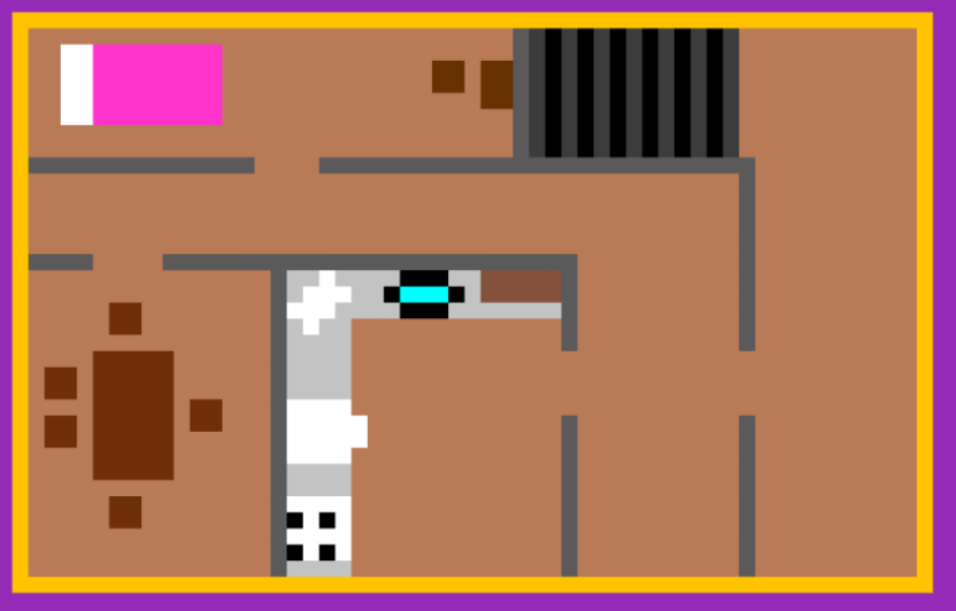
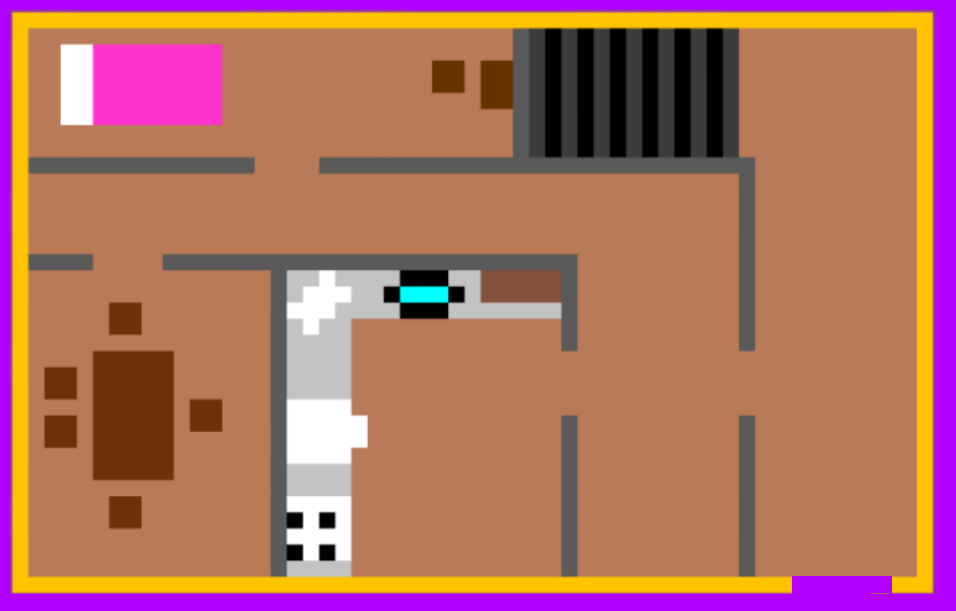
Paul implemented the score and the time into he game.
We also have a new main menu screen by Paul and a new button and clicked button by Nathan

Changed region(s): [[0.0, 0.0, 1.0, 1.0]]

diff --git a/CNYgame.py b/CNYgame.py
@@ -21,7 +21,7 @@ screen = pygame.display.set_mode(size)
 bgColor = r,g,b = 100, 30, 234
 bgI = pygame.image.load("images/map1.png")
 bgR = bgI.get_rect()
-bgImage = pygame.image.load("images/Screens/Screen Saver3.png").convert()
+bgImage = pygame.image.load("images/Screens/Capture.png").convert()
 bgRect = bgImage.get_rect()
 
 walls = [Wall([13, 12], [931, 28]),
@@ -52,13 +52,19 @@ player2 = PlayerBall([2*width/3, 2*height/3])
 balls = []
 balls += [Ball("images/Ball/crabman.png", [4,5], [100, 125])]
 
+timer = Score([80, height - 25], "Time:",36)
+timerWait = 0
+timerWaitMax =20
+
 title = Text([height/4, width/8], "Hello HUD!!", 20)
+
+score = Score([width-80,height-25], "Score:", 36)
 
 run = False
 
 startButton = Button([width/2, height-300], 
-                                     "images/Button/Start Base.png", 
-                                     "images/Button/Start Clicked.png")
+                                     "images/Button/newbutton.png", 
+                                     "images/Button/newbuttonc.png")
 
 while True:
         while not run:
@@ -80,104 +86,116 @@ while True:
                 pygame.display.flip()
                 clock.tick(60)
 
-	while run:
-		for event in pygame.event.get():
-			if event.type == pygame.QUIT: sys.exit()
-			if event.type == pygame.KEYDOWN:
-				if event.key == pygame.K_w:
-					player1.go("up")
-				if event.key == pygame.K_d:
-					player1.go("right")
-				if event.key == pygame.K_s:
-					player1.go("down")
-				if event.key == pygame.K_a:
-					player1.go("left")
-					
-				if event.key == pygame.K_UP:
-					player2.go("up")
-				if event.key == pygame.K_RIGHT:
-					player2.go("right")
-				if event.key == pygame.K_DOWN:
-					player2.go("down")
-				if event.key == pygame.K_LEFT:
-					player2.go("left")
-			if event.type == pygame.KEYUP:
-				if event.key == pygame.K_w:
-					player1.go("stop up")
-				if event.key == pygame.K_d:
-					player1.go("stop right")
-				if event.key == pygame.K_s:
-					player1.go("stop down")
-				if event.key == pygame.K_a:
-					player1.go("stop left")
+        while run:
+            for event in pygame.event.get():
+                if event.type == pygame.QUIT: sys.exit()
+                if event.type == pygame.KEYDOWN:
+                    if event.key == pygame.K_w:
+                        player1.go("up")
+                    if event.key == pygame.K_d:
+                        player1.go("right")
+                    if event.key == pygame.K_s:
+                        player1.go("down")
+                    if event.key == pygame.K_a:
+                        player1.go("left")
+                        
+                    if event.key == pygame.K_UP:
+                        player2.go("up")
+                    if event.key == pygame.K_RIGHT:
+                        player2.go("right")
+                    if event.key == pygame.K_DOWN:
+                        player2.go("down")
+                    if event.key == pygame.K_LEFT:
+                        player2.go("left")
+                if event.type == pygame.KEYUP:
+                    if event.key == pygame.K_w:
+                        player1.go("stop up")
+                    if event.key == pygame.K_d:
+                        player1.go("stop right")
+                    if event.key == pygame.K_s:
+                        player1.go("stop down")
+                    if event.key == pygame.K_a:
+                        player1.go("stop left")
 
-				if event.key == pygame.K_UP:
-					player2.go("stop up")
-				if event.key == pygame.K_RIGHT:
-					player2.go("stop right")
-				if event.key == pygame.K_DOWN:
-					player2.go("stop down")
-				if event.key == pygame.K_LEFT:
-					player2.go("stop left")
+                    if event.key == pygame.K_UP:
+                        player2.go("stop up")
+                    if event.key == pygame.K_RIGHT:
+                        player2.go("stop right")
+                    if event.key == pygame.K_DOWN:
+                        player2.go("stop down")
+                    if event.key == pygame.K_LEFT:
+                        player2.go("stop left")
+                    
                 
-			
-		if len(balls) < 2:
-			if random.randint(0, .25*60) == 0:
-				balls += [Ball("images/Ball/spinnything.png",
-						  [random.randint(0,10), random.randint(0,10)],
-						  [random.randint(100, width-100), random.randint(100, height-100)])
-						  ]
-		if len(balls) < 2:
-			if random.randint(0, .25*60) == 0:
-				balls += [Ball("images/Ball/crabman.png",
-						  [random.randint(0,10), random.randint(0,10)],
-						  [random.randint(100, width-100), random.randint(100, height-100)])
-						  ]
-  
-  
-		player1.update(width, height)
-		player2.update(width, height)
-		for ball in balls:
-			ball.update(width, height)
-			
-		for wall in walls:
-			player1.collideWall(wall)
-			player2.collideWall(wall)
-		 #   for ball in ball:
-		  #      ball.collideWall(wall)
-			
-		for bully in balls:
-			for victem in balls:
-				bully.collideBall(victem)
-				bully.collidePlayer(player1)
-				bully.collidePlayer(player2)
-		
-		for ball in balls:
-			if not ball.living:
-				balls.remove(ball)
-		
-		bgColor = r,g,b
-		screen.fill(bgColor)
-		screen.blit(bgI, bgR)
-		for ball in balls:
-			screen.blit(ball.image, ball.rect)
-		for wall in walls:
-			screen.blit(wall.image, wall.rect)
-		screen.blit(player1.image, player1.rect)
-		screen.blit(player2.image, player2.rect)
-		pygame.display.flip()
-		clock.tick(60)
-			
-			
-			
-			
-			
-			
-			
-			
-			
-			
-			
-        
-        
-        
+            if len(balls) < 2:
+                if random.randint(0, .25*60) == 0:
+                    balls += [Ball("images/Ball/spinnything.png",
+                              [random.randint(0,10), random.randint(0,10)],
+                              [random.randint(100, width-100), random.randint(100, height-100)])
+                              ]
+            if len(balls) < 2:
+                if random.randint(0, .25*60) == 0:
+                    balls += [Ball("images/Ball/crabman.png",
+                              [random.randint(0,10), random.randint(0,10)],
+                              [random.randint(100, width-100), random.randint(100, height-100)])
+                              ]
+      
+      
+            player1.update(width, height)
+            player2.update(width, height)
+            timer.update()
+            score.update()
+            for ball in balls:
+                ball.update(width, height)
+                
+            for wall in walls:
+                player1.collideWall(wall)
+                player2.collideWall(wall)
+             #   for ball in ball:
+              #      ball.collideWall(wall)
+                
+            for bully in balls:
+                for victem in balls:
+                    bully.collideBall(victem)
+                    bully.collidePlayer(player1)
+                    bully.collidePlayer(player2)
+                    
+                    
+            for ball in balls:
+                if not ball.living:
+                    balls.remove(ball)
+                    score.increaseScore(100)
+            if timerWait < timerWaitMax:
+                timerWait += 10
+                        
+            else:
+                timerWait = 0
+                timer.increaseScore(.1)                    
+            score.update()
+            bgColor = r,g,b
+            screen.fill(bgColor)
+            screen.blit(bgI, bgR)
+            for ball in balls:
+                screen.blit(ball.image, ball.rect)
+            for wall in walls:
+                screen.blit(wall.image, wall.rect)
+            screen.blit(timer.image, timer.rect)
+            screen.blit(score.image, score.rect)
+            screen.blit(player1.image, player1.rect)
+            screen.blit(player2.image, player2.rect)
+            pygame.display.flip()
+            clock.tick(60)
+                    
+                
+                
+                
+                
+                
+                
+                
+                
+                
+                
+            
+            
+            

diff --git a/Button2.py b/Button2.py
@@ -20,7 +20,7 @@ screen = pygame.display.set_mode(size)
 bgColor = r,g,b = 100, 30, 234
 bgI = pygame.image.load("images\map2.png")
 bgR = bgI.get_rect()
-bgImage = pygame.image.load("images/Screens/Screen Saver3.png").convert()
+bgImage = pygame.image.load("images/Screens/damian.png").convert()
 bgRect = bgImage.get_rect()
 
 
@@ -35,8 +35,8 @@ title = Text([height/4, width/8], "Hello HUD!!", 20)
 run = False
 
 startButton = Button([width/2, height-300], 
-                                     "images/Button/Start Base.png", 
-                                     "images/Button/Start Clicked.png")
+                                     "images/Button/newbutton.png", 
+                                     "images/Button/newbuttonc.png")
 
 while True:
         while not run:
